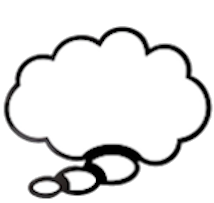
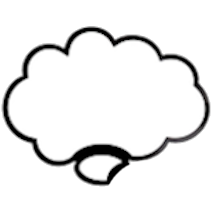
fixed image sizing issue

Changed region(s): [[0.0, 0.1182, 1.0, 1.0]]

diff --git a/src/app/analog-clock/analog-clock.component.ts b/src/app/analog-clock/analog-clock.component.ts
@@ -67,7 +67,7 @@ export class AnalogClockComponent implements OnInit {
     this.bubbleImg = minutes > 14 && minutes < 45 ? "url('../../assets/images/bubbleLeft.png')" : "url('../../assets/images/bubbleRight.png')"
     this.bubble.nativeElement.style.backgroundImage = this.bubbleImg
 
-    this.snoopyImg = minutes >= 0 && minutes < 10 ? "url('../../assets/images/upright.png')" : minutes >= 10 && minutes < 15 ? "url('../../assets/images/rightSit.png')" : minutes >= 15 && minutes < 20 ? "url('../../assets/images/right.png')" : minutes >= 20 && minutes < 30 ? "url('../../assets/images/downright.png')" : minutes >=30 && minutes < 40 ? "url('../../assets/images/downleft.png')" : minutes >= 40 && minutes < 45 ? "url('../../assets/images/left.png')" : minutes >= 45 && minutes < 50 ? "url('../../assets/images/leftSit.png')" : minutes >= 50 && minutes <= 59 ? "url('../../assets/images/upleft.png')" : "url('../../assets/images/upright.png')"
+    this.snoopyImg = minutes >= 0 && minutes < 8 ? "url('../../assets/images/upright.png')" : minutes >= 8 && minutes < 15 ? "url('../../assets/images/rightsit.png')" : minutes >= 15 && minutes < 20 ? "url('../../assets/images/right.png')" : minutes >= 20 && minutes < 30 ? "url('../../assets/images/downright.png')" : minutes >=30 && minutes < 40 ? "url('../../assets/images/downleft.png')" : minutes >= 40 && minutes < 45 ? "url('../../assets/images/left.png')" : minutes >= 45 && minutes < 52 ? "url('../../assets/images/leftsit.png')" : minutes >= 52 && minutes <= 59 ? "url('../../assets/images/upleft.png')" : "url('../../assets/images/upright.png')"
     this.snoopy.nativeElement.style.backgroundImage = this.snoopyImg
 
     this.backgroundImg = hours > 6 && hours < 18 ? "url('../../assets/images/daytime.jpg')" : "url('../../assets/images/nighttime.jpg')"
@@ -78,6 +78,6 @@ export class AnalogClockComponent implements OnInit {
     // audio.src = "../../../assets/sounds/snoopyDance.mp3";
     // audio.load();
     // audio.play();
-    //add snoopy play button since audio does not play automatically
+    // add snoopy play button since audio does not play automatically
   }
 }

diff --git a/src/app/analog-clock/analog-clock.component.scss b/src/app/analog-clock/analog-clock.component.scss
@@ -16,10 +16,10 @@ h1 {
   font-size: 40px;
 }
 .rainbow {
-  text-align: center;
+  // text-align: bottom;
   font-size: 3.5em;
   font-family: "DK Cool Crayon";
-  background: linear-gradient(to left, violet, indigo, blue, green, yellow, orange, red);
+  background: linear-gradient(to left, rgb(255, 147, 255), rgb(132, 9, 219), rgb(64, 64, 252), rgb(5, 238, 5), yellow, rgb(255, 175, 27), rgb(255, 56, 56));
   -webkit-text-fill-color: transparent;
   -webkit-background-clip: text;
   text-shadow: 0 0 2px rgba(0,0,0,.5);
@@ -72,7 +72,8 @@ h2 {
   background-size: contain;
   background-repeat: no-repeat;
   background-position: center bottom;
-  // top: 10%;
+  position: absolute;
+  top: 40%;
 }
 
 .clock::before
@@ -132,6 +133,7 @@ h2 {
   background-size: contain;
   background-position: top;
   background-repeat: no-repeat;
+  z-index: 6;
 }
 
 #lines {
@@ -148,13 +150,14 @@ h2 {
   width: 3em;
   height: 3em;
   position: absolute;
-  transform: rotate(12deg);
+  transform: rotate(6deg);
   transform-origin: 10% 15%;
   background-image: url('../../assets/images/woodstockbubbleLeft.png');
   background-size: contain;
   background-position: top;
   background-repeat: no-repeat;
-  z-index: 4;
+  // right: 0%;
+  // left: 40%;
 }
 
 .hr-hand {
